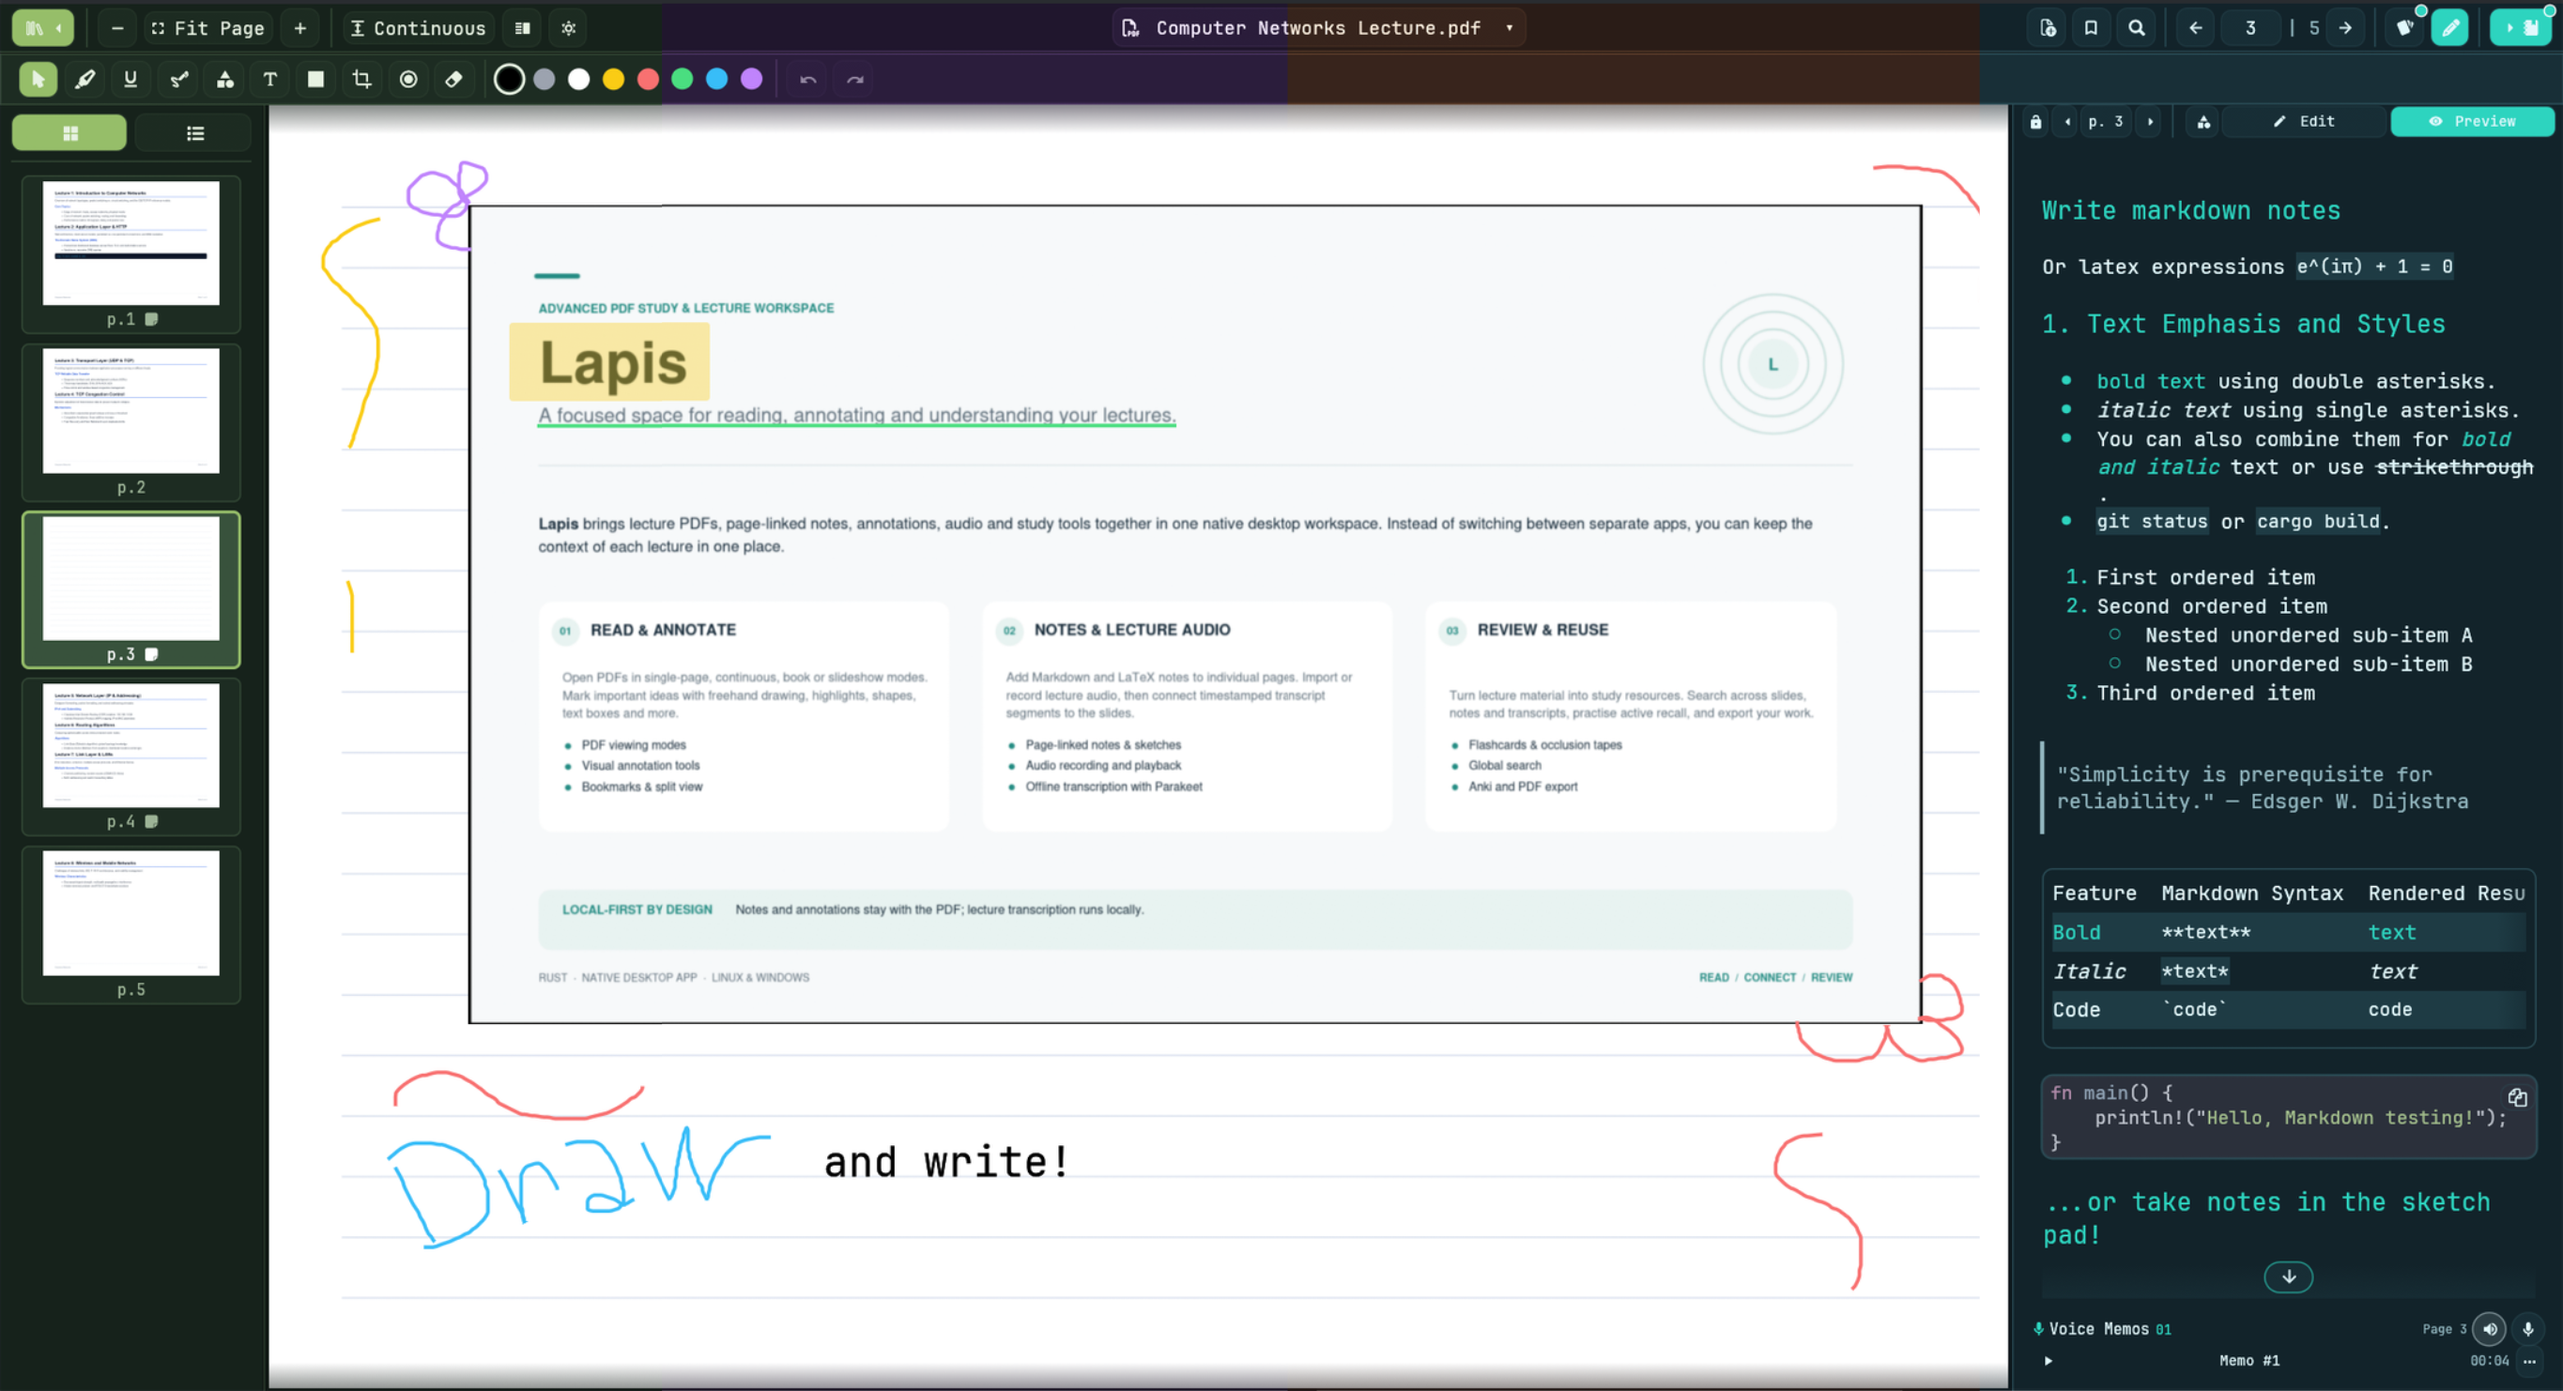
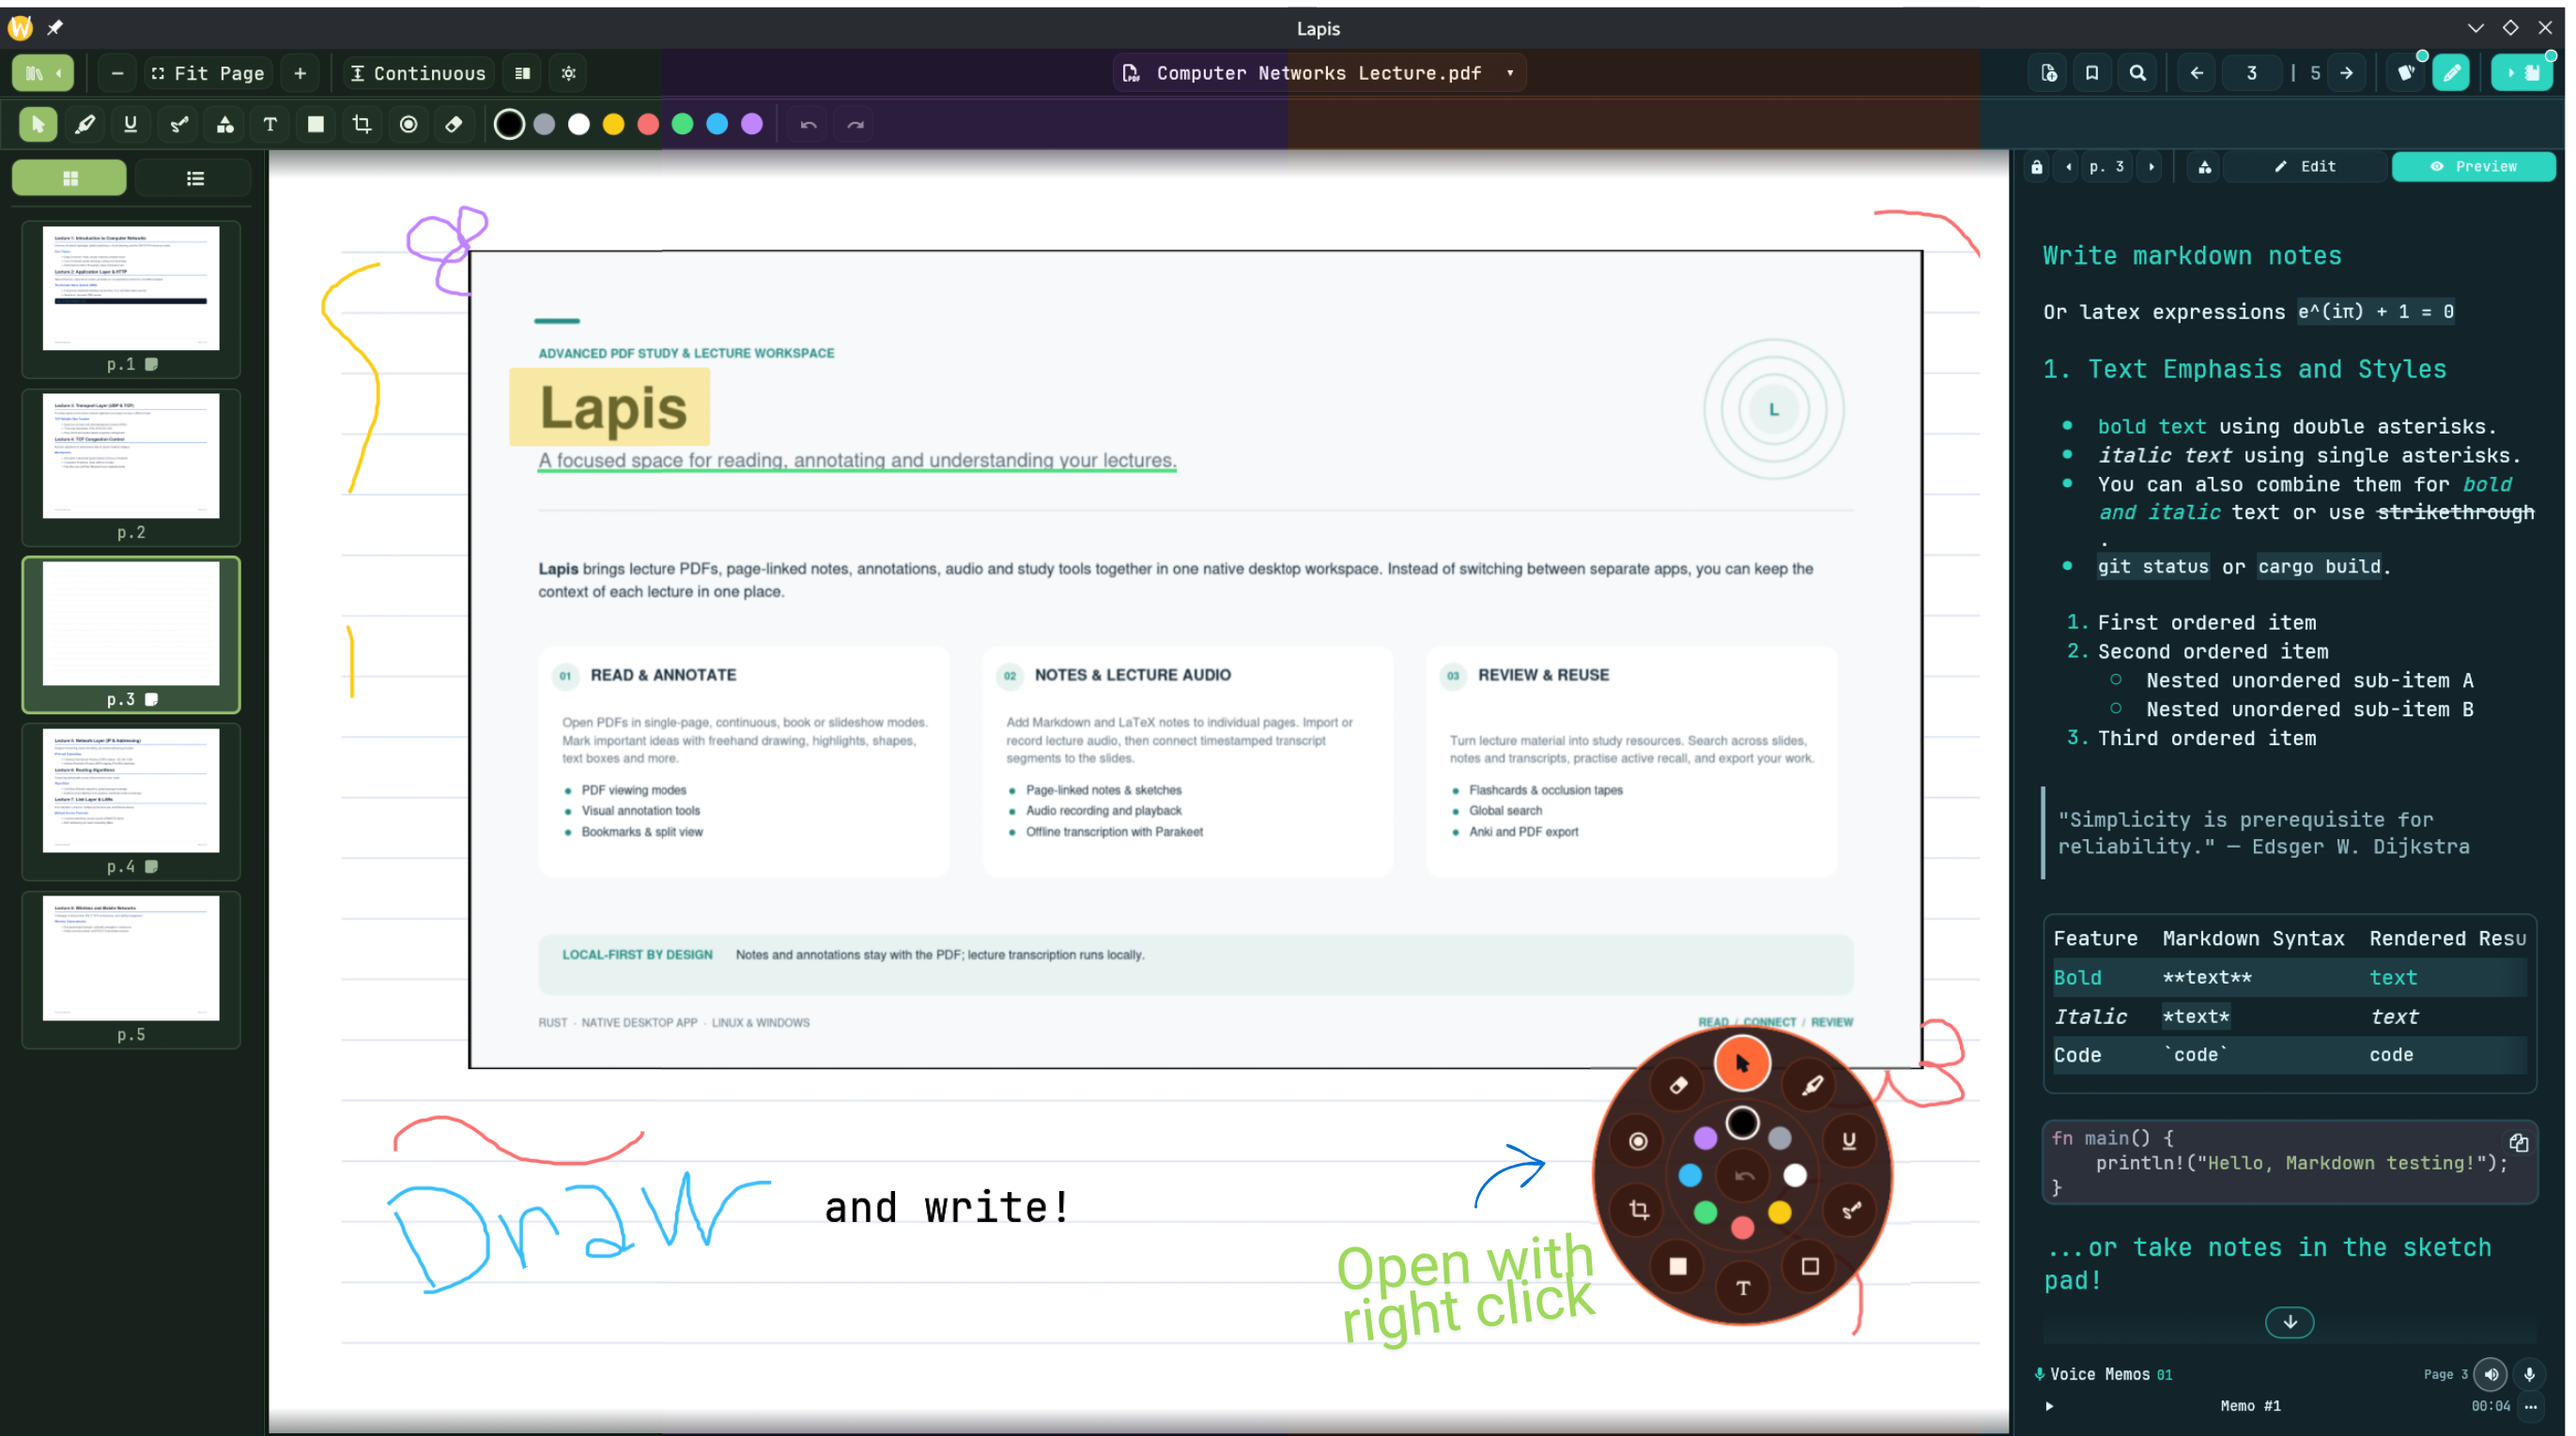
docs: improved presentation

diff --git a/README.md b/README.md
@@ -40,9 +40,11 @@ Each PDF page can have its own notes, annotations, audio references, transcript 
 ## Features at a Glance
 
 - **Advanced PDF Viewer** — Single Page, Continuous Scroll, Two-Page Book, Slideshow, and Slideshow with Notes modes.
+- **Customizable Workspace**: Choose which features to enable, which buttons to display, and tailor the app to your liking. Select from 15+ unique themes, upload custom fonts, personalize keyboard shortcuts, and much more — all from advanced settings.
 - **Split View** — Display and annotate two PDF pages side by side.
 - **PDF Night Mode** — Toggle a dark viewing treatment for PDFs.
-- **Vector Annotation Tools** — Freehand drawing, highlighting, underlining, shapes, text boxes, erasing, occlusion tapes, region snipping, and laser pointer.
+- **Annotation tools always at hand**: Right-click anywhere on the PDF to open the radial menu.
+- **Full Drawing & Markup Kit** — Freehand drawing, highlighting, underlining, shapes, text boxes, eraser, occlusion tape, region snipping, and laser pointer.
 - **Custom Study Pages** — Insert ruled, dotted, grid, or blank pages into your document.
 - **Markdown & LaTeX Notes** — Edit and preview formatted notes, including mathematical expressions.
 - **Spellchecking & Dictionaries** — Offline spellchecking, suggestions, custom words, and additional dictionaries.
@@ -55,7 +57,6 @@ Each PDF page can have its own notes, annotations, audio references, transcript 
 - **Global Search & Command Palette** — Search across PDF content, notes, and audio transcripts, or quickly access application commands.
 - **Bookmarks, Thumbnails & Outline** — Navigate large documents more efficiently.
 - **Import & Export** — Import Markdown/text notes, export notes, and export a PDF with your annotations, your notes, or both, keeping the original pages untouched.
-- **Customizable Workspace** — Themes, typography, keyboard shortcuts, study tools, and storage management.
 
 > ### 📖 [Read the complete User Guide →](docs/USER_GUIDE.md)
 > Viewing modes, annotation tools, Markdown & LaTeX notes, the audio workspace, offline transcription, flashcards, search, settings and export, all explained step by step.

diff --git a/docs/USER_GUIDE.md b/docs/USER_GUIDE.md
@@ -183,7 +183,7 @@ Lapis includes a collection of annotation tools for marking up PDF pages.
   <img src="images/06-annotation-tools.png" alt="Annotation toolbar and tools" width="85%">
 </p>
 
-Select a tool from the annotation toolbar. The radial tools menu can also be used when enabled in Settings.
+Select a tool from the annotation toolbar. The radial tools menu can also be used when enabled in Settings and can be opened with a right click anywhere on the PDF.
 
 ### Cursor
 
